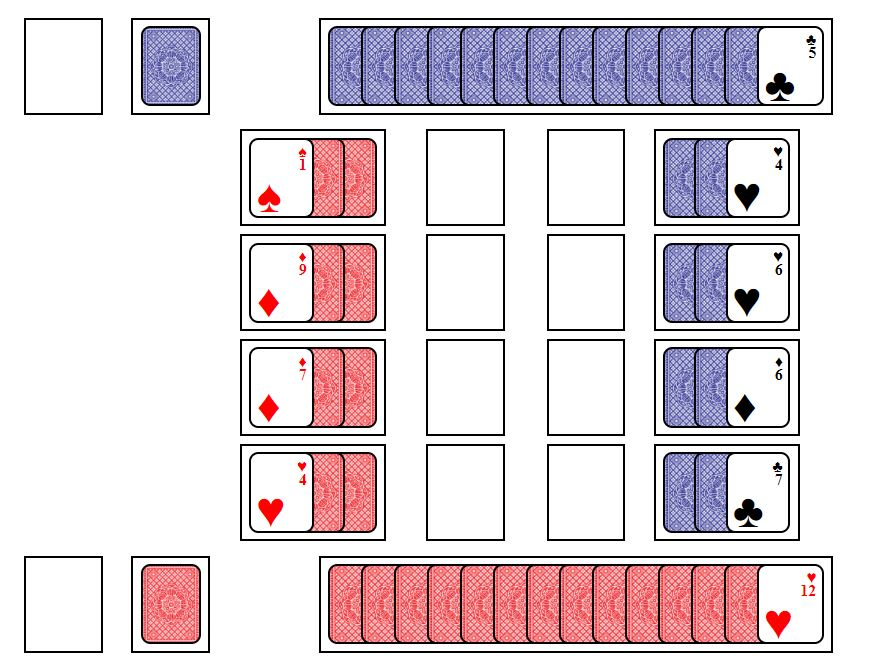
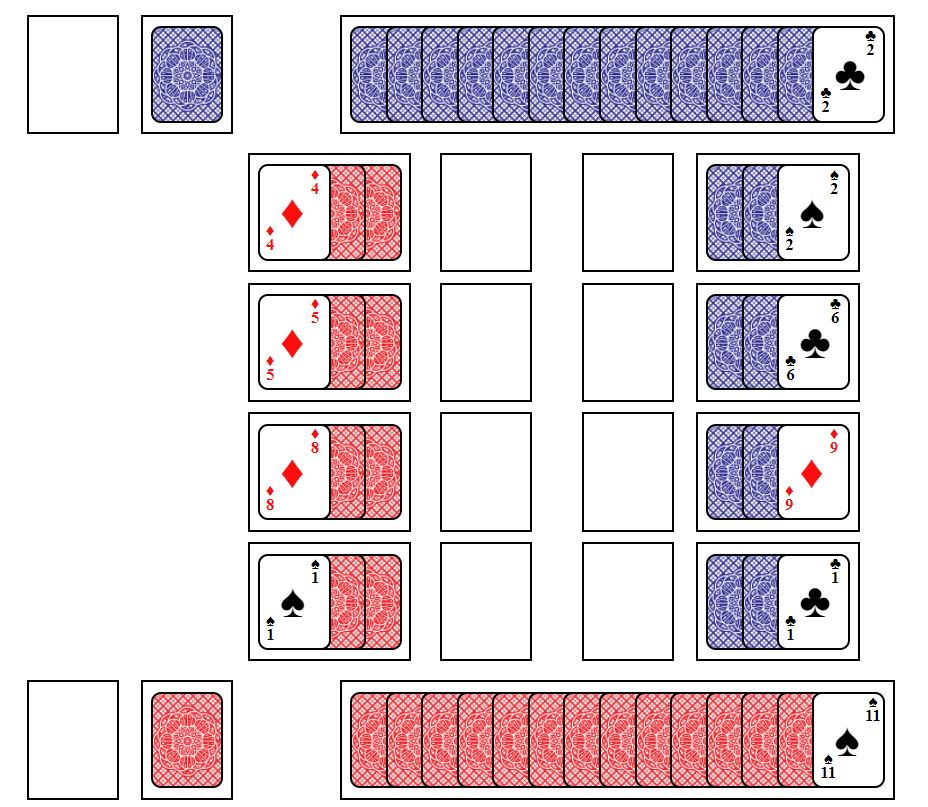
fixed margins

diff --git a/react-client/src/Game.js b/react-client/src/Game.js
@@ -47,7 +47,6 @@ export default class Game extends React.Component{
                     className="game"
                     style = {{
                         position: 'fixed',
-                        left:'20vw'
                     }}>
                     <Stack 
                         stack = {this.state.stacks[this.props.color+"malus"]} 
@@ -229,13 +228,13 @@ function Stack (props) {
         }
         if(!props.player) {
             if(props.stack.name.includes('foundation0'))
-                return '41.5vw'
+                return '41vw'
             if(props.stack.name.includes('foundation1'))
-                return '41.5vw'
+                return '41vw'
             if(props.stack.name.includes('foundation2'))
-                return '41.5vw'
+                return '41vw'
             if(props.stack.name.includes('foundation3'))
-                return '41.5vw'
+                return '41vw'
         }
         if(props.player) {
             if(props.stack.name.includes('foundation0'))
@@ -253,13 +252,13 @@ function Stack (props) {
       
         if(props.player) {
             if(props.stack.name.includes('tableau0'))
-                return '60.5vw'
+                return '-39.5vw'
             if(props.stack.name.includes('tableau1'))
-                return '60.5vw'
+                return '-39.5vw'
             if(props.stack.name.includes('tableau2'))
-                return '60.5vw'
+                return '-39.5vw'
             if(props.stack.name.includes('tableau3'))
-                return '60.5vw'
+                return '-39.5vw'
         }
       }
         return (
@@ -269,7 +268,7 @@ function Stack (props) {
                 style = {{
                     border: '.15rem  solid black',
                     
-                    position : 'fixed',
+                    position : 'absolute',
                     left : leftValue(),
                     right : rightValue(),
                     top : topValues(),
@@ -356,9 +355,7 @@ function Card (props) {
                         position : 'absolute',
                         textAlign : 'center',
                         marginLeft : '3.15vmax',
-                        marginTop :'-.5vmin'
-                        
-                        
+                        marginTop :'-.5vmin'  
                     }} >
                     {props.suit}<br/>{props.value }
                 </div>
@@ -376,8 +373,8 @@ function Card (props) {
                     style={{
                         fontSize: '3.4vmax',
                         position : 'absolute',
-                        marginBottom : '2.2vmin',
-                        marginLeft : '.9vmax'
+                        marginBottom : '2vmin',
+                        marginLeft : '1vmax'
                     }}> 
                     {props.suit}
                 </div>
